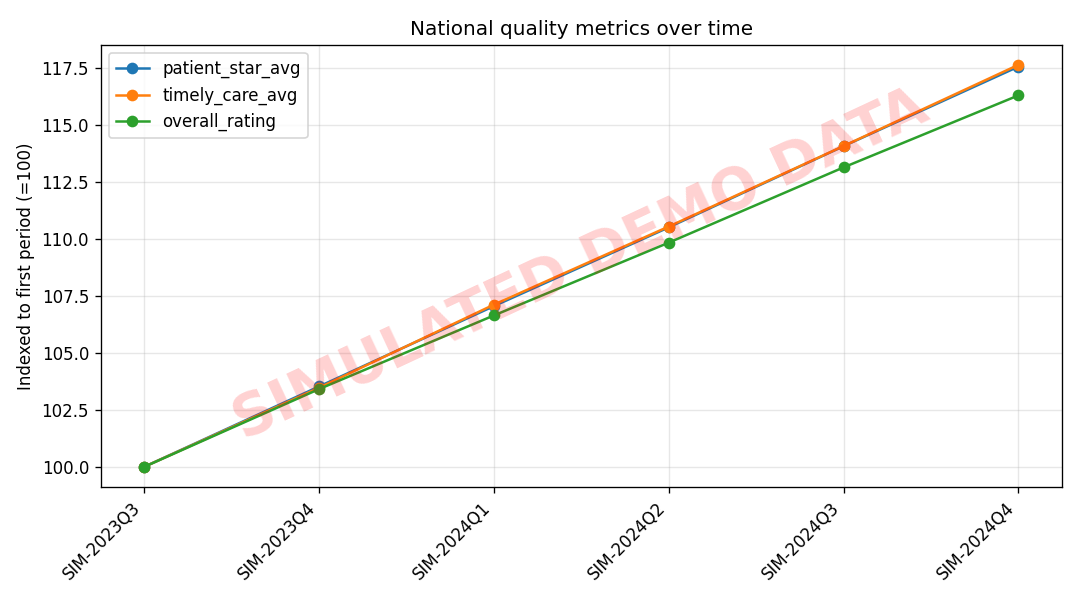
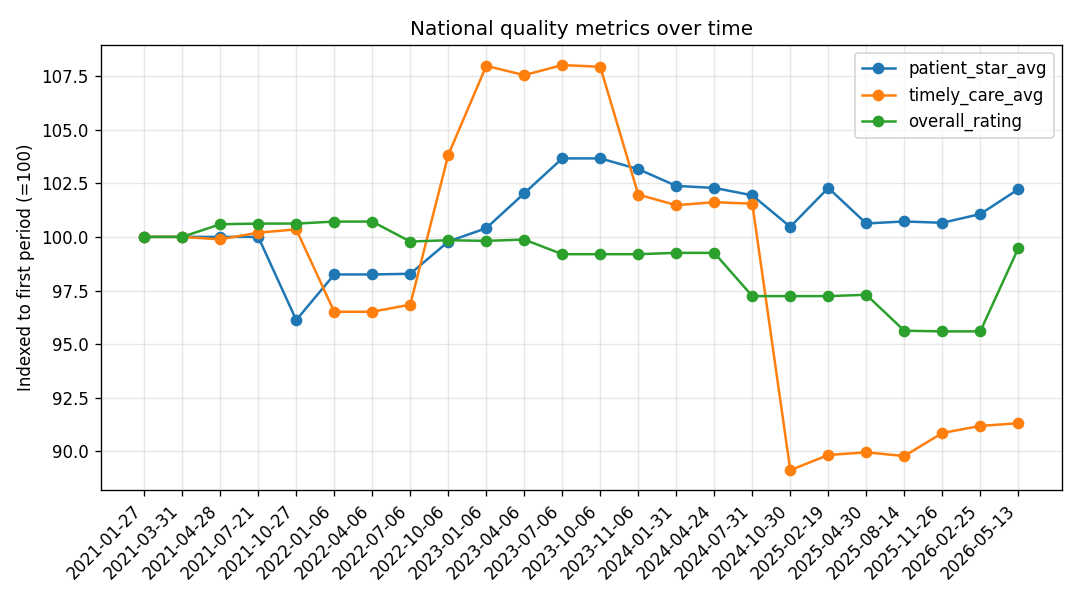
Build real longitudinal trends from 24 CMS quarterly releases (2021-2026)
- build_features.py: schema-tolerant loaders (column aliases, optional risk counts
  as NaN not 0) + encoding auto-detect (UTF-8/Windows-1252) across archive years
- scripts/build_snapshots_from_archives.py: unpack nested CMS annual archives into
  24 per-period feature tables
- real trend chart + national_trends.csv (5,830 hospitals, 817 declining)
- README Phase 3: real-data findings, drop simulated caveat

diff --git a/scripts/build_snapshots_from_archives.py b/scripts/build_snapshots_from_archives.py
@@ -1,0 +1,91 @@
+"""
+build_snapshots_from_archives.py
+--------------------------------
+Turns CMS *annual* archive ZIPs (each containing several dated release ZIPs,
+each containing the raw hospital CSVs) into the per-period feature tables the
+longitudinal pipeline consumes.
+
+For every release it:
+  1. extracts the 3 needed CSVs to a temp dir,
+  2. runs build_features.assemble() to reduce them to one per-hospital row,
+  3. writes data/snapshots/<release-date>/hospital_features.csv,
+  4. deletes the bulky raw CSVs (keeps ~1 MB/period instead of ~170 MB).
+
+Run:
+    python scripts/build_snapshots_from_archives.py
+"""
+
+from __future__ import annotations
+import io
+import pathlib
+import re
+import sys
+import tempfile
+import zipfile
+
+ROOT = pathlib.Path(__file__).resolve().parents[1]
+sys.path.insert(0, str(ROOT / "ml" / "src"))
+from build_features import assemble  # noqa: E402
+
+DATA = ROOT / "data"
+SNAP = DATA / "snapshots"
+
+TARGETS = {
+    "hospital_general_information.csv": "Hospital_General_Information.csv",
+    "timely_and_effective_care-hospital.csv": "Timely_and_Effective_Care-Hospital.csv",
+    "hcahps-hospital.csv": "HCAHPS-Hospital.csv",
+}
+DATE_RE = re.compile(r"(\d{4}-\d{2}-\d{2})")
+
+
+def _extract_targets(zf: zipfile.ZipFile, dest: pathlib.Path) -> int:
+    """Extract the 3 target CSVs (matched by basename) into dest. Returns count found."""
+    found = 0
+    for member in zf.namelist():
+        base = member.split("/")[-1].lower()
+        if base in TARGETS:
+            with zf.open(member) as src, open(dest / TARGETS[base], "wb") as out:
+                out.write(src.read())
+            found += 1
+    return found
+
+
+def process_release(release_zip_bytes: bytes, period: str) -> bool:
+    with tempfile.TemporaryDirectory() as tmp:
+        tmpd = pathlib.Path(tmp)
+        with zipfile.ZipFile(io.BytesIO(release_zip_bytes)) as rz:
+            n = _extract_targets(rz, tmpd)
+        if n < 3:
+            print(f"  [skip] {period}: found only {n}/3 target files")
+            return False
+        features = assemble(tmpd)
+        out_dir = SNAP / period
+        out_dir.mkdir(parents=True, exist_ok=True)
+        features.to_csv(out_dir / "hospital_features.csv", index=False)
+        print(f"  [ok]   {period}: {len(features)} hospitals")
+        return True
+
+
+def main():
+    annual_zips = sorted(DATA.glob("hospitals_annual_*.zip"))
+    if not annual_zips:
+        raise SystemExit(f"No hospitals_annual_*.zip found in {DATA}")
+
+    made = []
+    for az in annual_zips:
+        print(f"== {az.name} ==")
+        with zipfile.ZipFile(az) as outer:
+            release_members = [m for m in outer.namelist() if m.lower().endswith(".zip")]
+            for m in sorted(release_members):
+                date_match = DATE_RE.search(m)
+                period = date_match.group(1) if date_match else pathlib.Path(m).stem
+                if process_release(outer.read(m), period):
+                    made.append(period)
+
+    print(f"\nBuilt {len(made)} real period snapshots -> {SNAP}")
+    print("Periods:", ", ".join(sorted(made)))
+    print("Next: python ml/src/build_panel.py && python ml/src/trend_analysis.py")
+
+
+if __name__ == "__main__":
+    main()

diff --git a/ml/src/build_features.py b/ml/src/build_features.py
@@ -37,6 +37,18 @@ OUT_DIR.mkdir(parents=True, exist_ok=True)
 MISSING_TOKENS = {"Not Available", "Not Applicable", "", "N/A", "NA", "*"}
 
 
+def _read_csv(path: pathlib.Path) -> pd.DataFrame:
+    """Read a CMS CSV as strings, tolerant of encoding drift across years.
+    Newer releases are UTF-8; older ones (≤2023) are Windows-1252/latin-1."""
+    for enc in ("utf-8-sig", "latin-1"):
+        try:
+            df = pd.read_csv(path, dtype=str, encoding=enc)
+            break
+        except UnicodeDecodeError:
+            continue
+    return df.rename(columns=lambda c: c.strip())
+
+
 def _to_num(series: pd.Series) -> pd.Series:
     """Coerce a CMS text column to numeric, mapping missing tokens to NaN."""
     cleaned = series.astype(str).str.strip()
@@ -44,23 +56,39 @@ def _to_num(series: pd.Series) -> pd.Series:
     return pd.to_numeric(cleaned, errors="coerce")
 
 
+def _pick(df: pd.DataFrame, *names) -> pd.Series | None:
+    """First matching column across CMS schema versions (columns get renamed over years)."""
+    for n in names:
+        if n in df.columns:
+            return df[n]
+    return None
+
+
+def _pick_num(df: pd.DataFrame, *names) -> pd.Series:
+    """Numeric version of a possibly-absent column; all-NaN if none of the names exist.
+    Older CMS schemas (≤2021) lack the numeric worse-measure counts entirely."""
+    s = _pick(df, *names)
+    return _to_num(s) if s is not None else pd.Series(np.nan, index=df.index)
+
+
 def load_general(data_dir: pathlib.Path = DATA_DIR) -> pd.DataFrame:
-    df = pd.read_csv(data_dir / "Hospital_General_Information.csv",
-                     dtype=str).rename(columns=lambda c: c.strip())
+    df = _read_csv(data_dir / "Hospital_General_Information.csv")
+    county = _pick(df, "County/Parish", "County Name")
     out = pd.DataFrame(
         {
             "facility_id": df["Facility ID"].str.strip(),
             "facility_name": df["Facility Name"].str.strip(),
             "state": df["State"].str.strip(),
-            "county": df["County/Parish"].str.strip(),
+            "county": county.str.strip() if county is not None else "",
             "hospital_type": df["Hospital Type"].str.strip(),
             "hospital_ownership": df["Hospital Ownership"].str.strip(),
             "emergency_services": (df["Emergency Services"].str.strip() == "Yes").astype(int),
             "overall_rating": _to_num(df["Hospital overall rating"]),
-            # kept ONLY for target engineering (leakage-prone) -> dropped from X later
-            "_mort_worse": _to_num(df["Count of MORT Measures Worse"]),
-            "_safety_worse": _to_num(df["Count of Safety Measures Worse"]),
-            "_readm_worse": _to_num(df["Count of READM Measures Worse"]),
+            # kept ONLY for target engineering (leakage-prone) -> dropped from X later.
+            # Absent in older schemas -> all-NaN, handled downstream in assemble().
+            "_mort_worse": _pick_num(df, "Count of MORT Measures Worse"),
+            "_safety_worse": _pick_num(df, "Count of Safety Measures Worse"),
+            "_readm_worse": _pick_num(df, "Count of READM Measures Worse"),
         }
     )
     return out.drop_duplicates("facility_id")
@@ -68,8 +96,7 @@ def load_general(data_dir: pathlib.Path = DATA_DIR) -> pd.DataFrame:
 
 def load_hcahps(data_dir: pathlib.Path = DATA_DIR) -> pd.DataFrame:
     """Pivot HCAHPS to one row/hospital. Target = mean patient star rating."""
-    df = pd.read_csv(data_dir / "HCAHPS-Hospital.csv",
-                     dtype=str).rename(columns=lambda c: c.strip())
+    df = _read_csv(data_dir / "HCAHPS-Hospital.csv")
     df["fid"] = df["Facility ID"].str.strip()
     df["star"] = _to_num(df["Patient Survey Star Rating"])
     df["resp_rate"] = _to_num(df["Survey Response Rate Percent"])
@@ -88,8 +115,7 @@ def load_hcahps(data_dir: pathlib.Path = DATA_DIR) -> pd.DataFrame:
 
 def load_timely(data_dir: pathlib.Path = DATA_DIR) -> pd.DataFrame:
     """Average timely/effective-care score per hospital (0-100 process measures)."""
-    df = pd.read_csv(data_dir / "Timely_and_Effective_Care-Hospital.csv",
-                     dtype=str).rename(columns=lambda c: c.strip())
+    df = _read_csv(data_dir / "Timely_and_Effective_Care-Hospital.csv")
     df["fid"] = df["Facility ID"].str.strip()
     df["score"] = _to_num(df["Score"])
     # keep only 0-100 style process scores to avoid mixing minute-based measures
@@ -114,10 +140,12 @@ def assemble(data_dir: pathlib.Path = DATA_DIR) -> pd.DataFrame:
     )
 
     # --- Target 2: underperformer flag (uses the leakage-prone worse-counts) ---
-    worse_total = (
-        df[["_mort_worse", "_safety_worse", "_readm_worse"]].fillna(0).sum(axis=1)
-    )
-    df["composite_risk_score"] = worse_total
+    worse = df[["_mort_worse", "_safety_worse", "_readm_worse"]]
+    worse_total = worse.fillna(0).sum(axis=1)
+    # Older CMS schemas (≤2022) lack the numeric worse-counts entirely -> record the
+    # composite risk as NaN (genuinely unknown) rather than a misleading 0.
+    has_counts = bool(worse.notna().to_numpy().any())
+    df["composite_risk_score"] = worse_total if has_counts else np.nan
     # "Underperformer" = low overall rating (1-2 stars) OR any worse-than-avg measure
     df["is_underperformer"] = underperformer_flag(df["overall_rating"], worse_total)
     return df

diff --git a/README.md b/README.md
@@ -40,6 +40,7 @@ The project is built in three phases that mirror how a real analytics product ma
 - 🤖 **Patient-satisfaction model** — Random Forest, **R² = 0.44**
 - 🎯 **Underperformer-triage model** — Random Forest, **ROC-AUC = 0.90** (84% recall)
 - 🔍 **SHAP explainability** + 5-fold cross-validated model selection
+- 📈 **24 quarterly CMS releases (2021–2026)** stitched into a longitudinal panel → **817 hospitals** flagged on a declining trajectory
 - ✅ **13 automated tests** + **GitHub Actions CI** enforcing a strict data-leakage guard
 
 ---
@@ -159,20 +160,25 @@ streamlit run app.py             # launch the dashboard
 
 CMS publishes hospital data as periodic **archived snapshots**. This phase stacks multiple periods into one **panel** (hospital × period) and turns it into an **early-warning system** — flagging hospitals on a sustained downward trajectory *before* they show up as low-rated.
 
+Built on **real CMS archives** spanning **24 quarterly releases (Jan 2021 → May 2026)** across **5,830 hospitals** — with **817 hospitals flagged** on a declining trajectory.
+
 ```bash
-# Real data: drop CMS archived snapshots into data/snapshots/<period>/   — OR —
-# Demo:      generate clearly-labeled SIMULATED history to exercise the pipeline
-python src/simulate_history.py --periods 6
+# Rebuild the real snapshots from CMS annual archive ZIPs in data/:
+python scripts/build_snapshots_from_archives.py   # 24 periods -> data/snapshots/<date>/
 
 python src/build_panel.py       # stack snapshots -> panel + period-over-period deltas
 python src/trend_analysis.py    # trajectory slopes + early-warning flags + national trends
 ```
 
-**Outputs:** `hospital_panel.csv` (LAG-style `*_delta` columns), `hospital_trends.csv` (per-hospital slopes + `declining_trajectory` flag), and `national_trends.csv` + a trend chart.
+**Outputs:** `hospital_panel.csv` (LAG-style `*_delta` columns), `hospital_trends.csv` (per-hospital slopes + `declining_trajectory` flag), and `national_trends.csv` + the trend chart below.
 
-> **⚠️ Honesty note.** Historical CMS archives were unavailable at build time, so the pipeline is validated on **synthetic history** (`simulate_history.py`, random walks over the current snapshot). It is **clearly labeled** — `SIM-` folder prefixes, console warnings, and a watermarked chart. **Real trends require only dropping the CMS archives into `data/snapshots/` — no code changes.** This is the one step that moves the project into true longitudinal/forecasting territory.
+![National quality metrics, 2021–2026](ml/outputs/national_trend.png)
+
+**What the real data shows:** timely-and-effective-care scores rose through 2023, then dropped sharply in late 2024 (a CMS measure-set change); patient satisfaction held roughly steady (~3.2★); survey response rates drifted down (25% → 23%); and overall ratings declined gradually before recovering in 2026.
+
+> **Real-world data engineering handled here:** the 2021–2022 archives use an *older CMS schema* (renamed columns; categorical quality fields instead of numeric measure counts) and mixed **Windows-1252 / UTF-8 encodings**. The loaders resolve column aliases, treat the risk counts as optional (recorded as `NaN`, not a misleading `0`, when absent), and auto-detect encoding — so all 24 heterogeneous releases assemble into one clean panel.
 >
-> ![National trend (simulated demo)](ml/outputs/national_trend.png)
+> *(`src/simulate_history.py` remains as a demo generator for anyone without the archives; it writes clearly-labeled `SIM-` snapshots.)*
 
 ---
 
@@ -210,6 +216,8 @@ hospital-quality-intelligence/
 │   ├── app.py                      # Streamlit dashboard
 │   ├── requirements.txt
 │   └── outputs/                    # SHAP plots, metrics, leaderboard, trend chart
+├── scripts/
+│   └── build_snapshots_from_archives.py  # unpack CMS annual archives -> 24 period snapshots
 ├── requirements.txt                # minimal deps for Streamlit Cloud deploy
 └── .github/workflows/ci.yml        # runs the test suite on every push
 ```